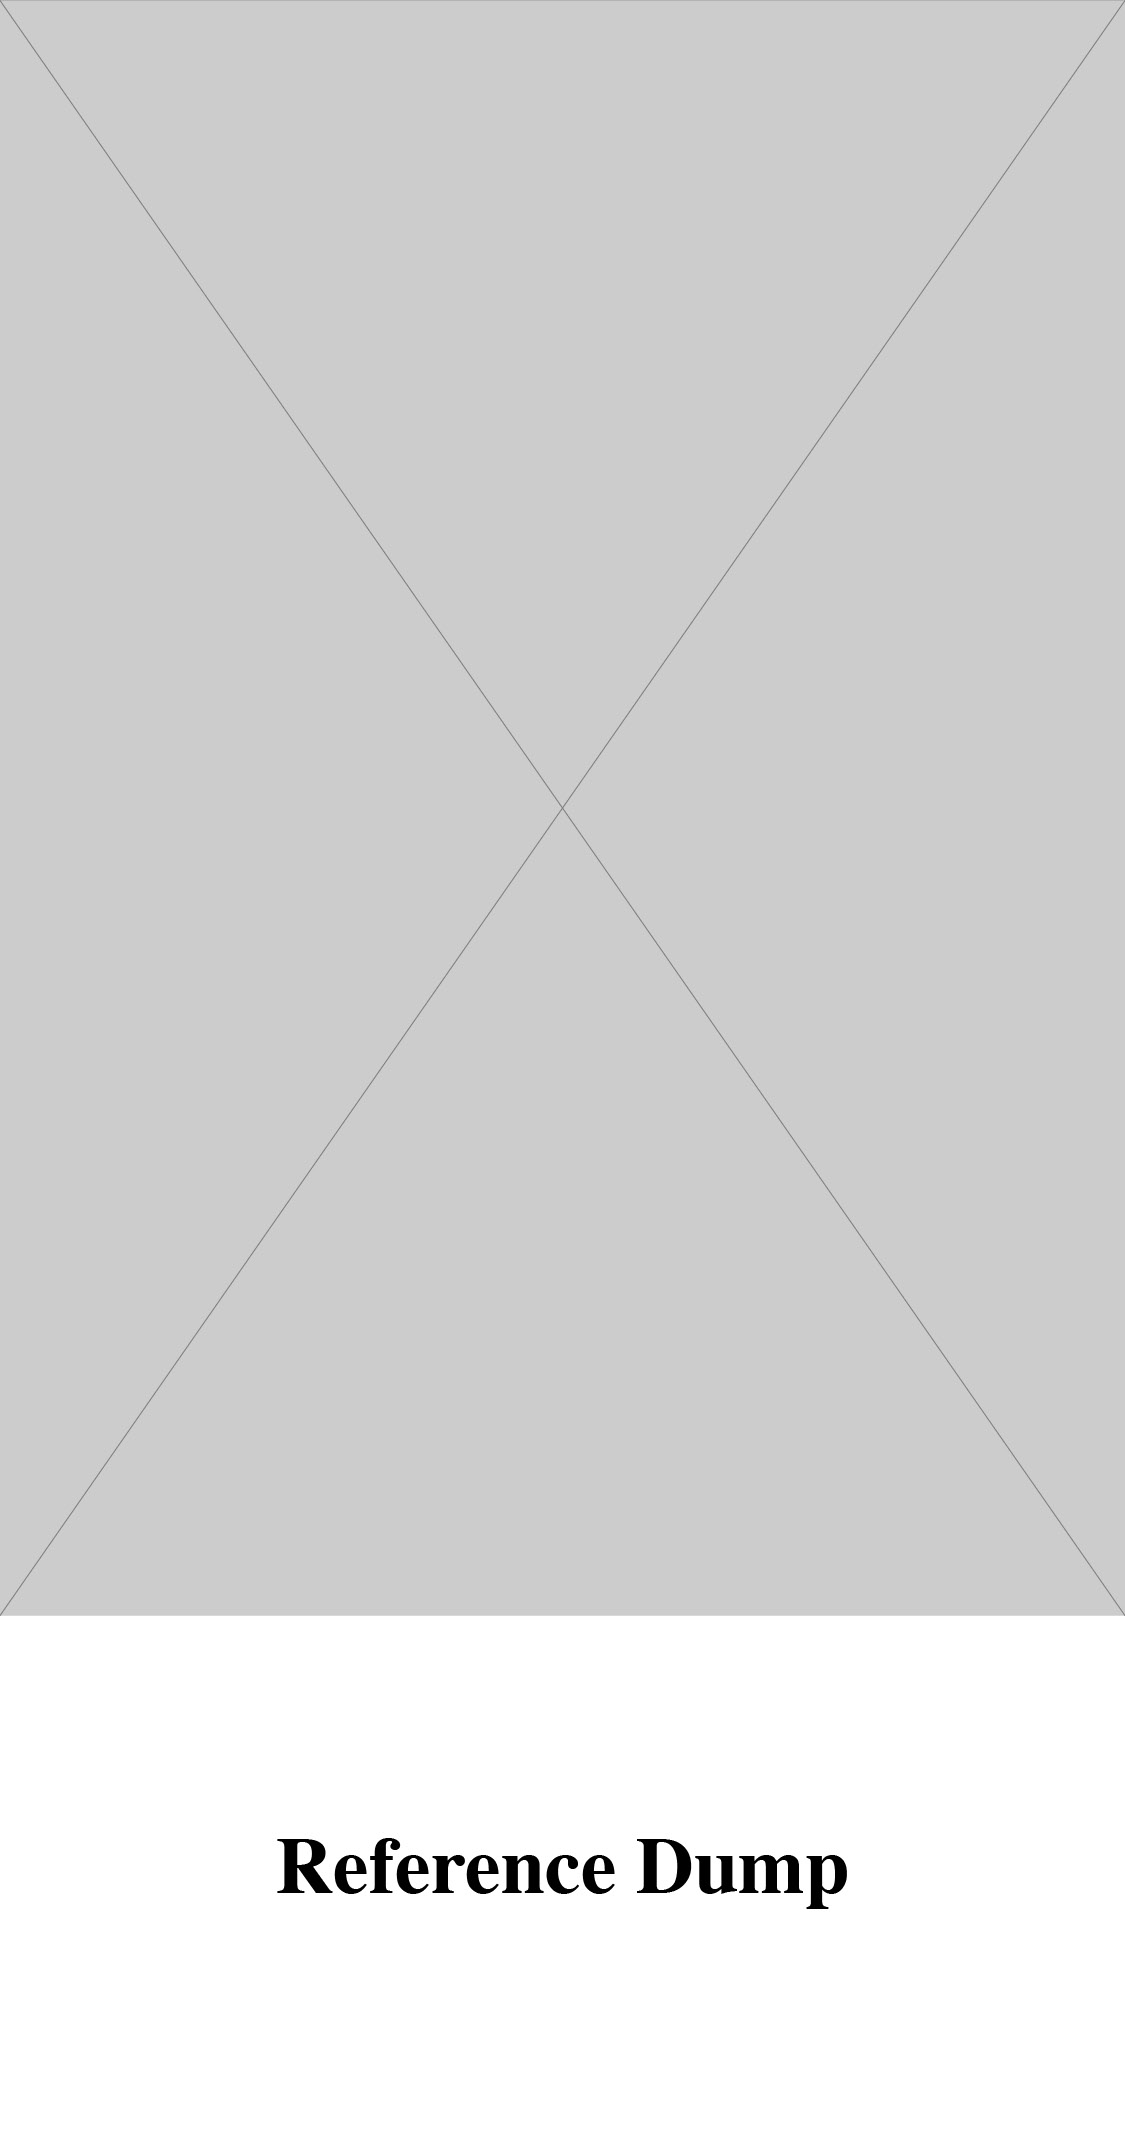
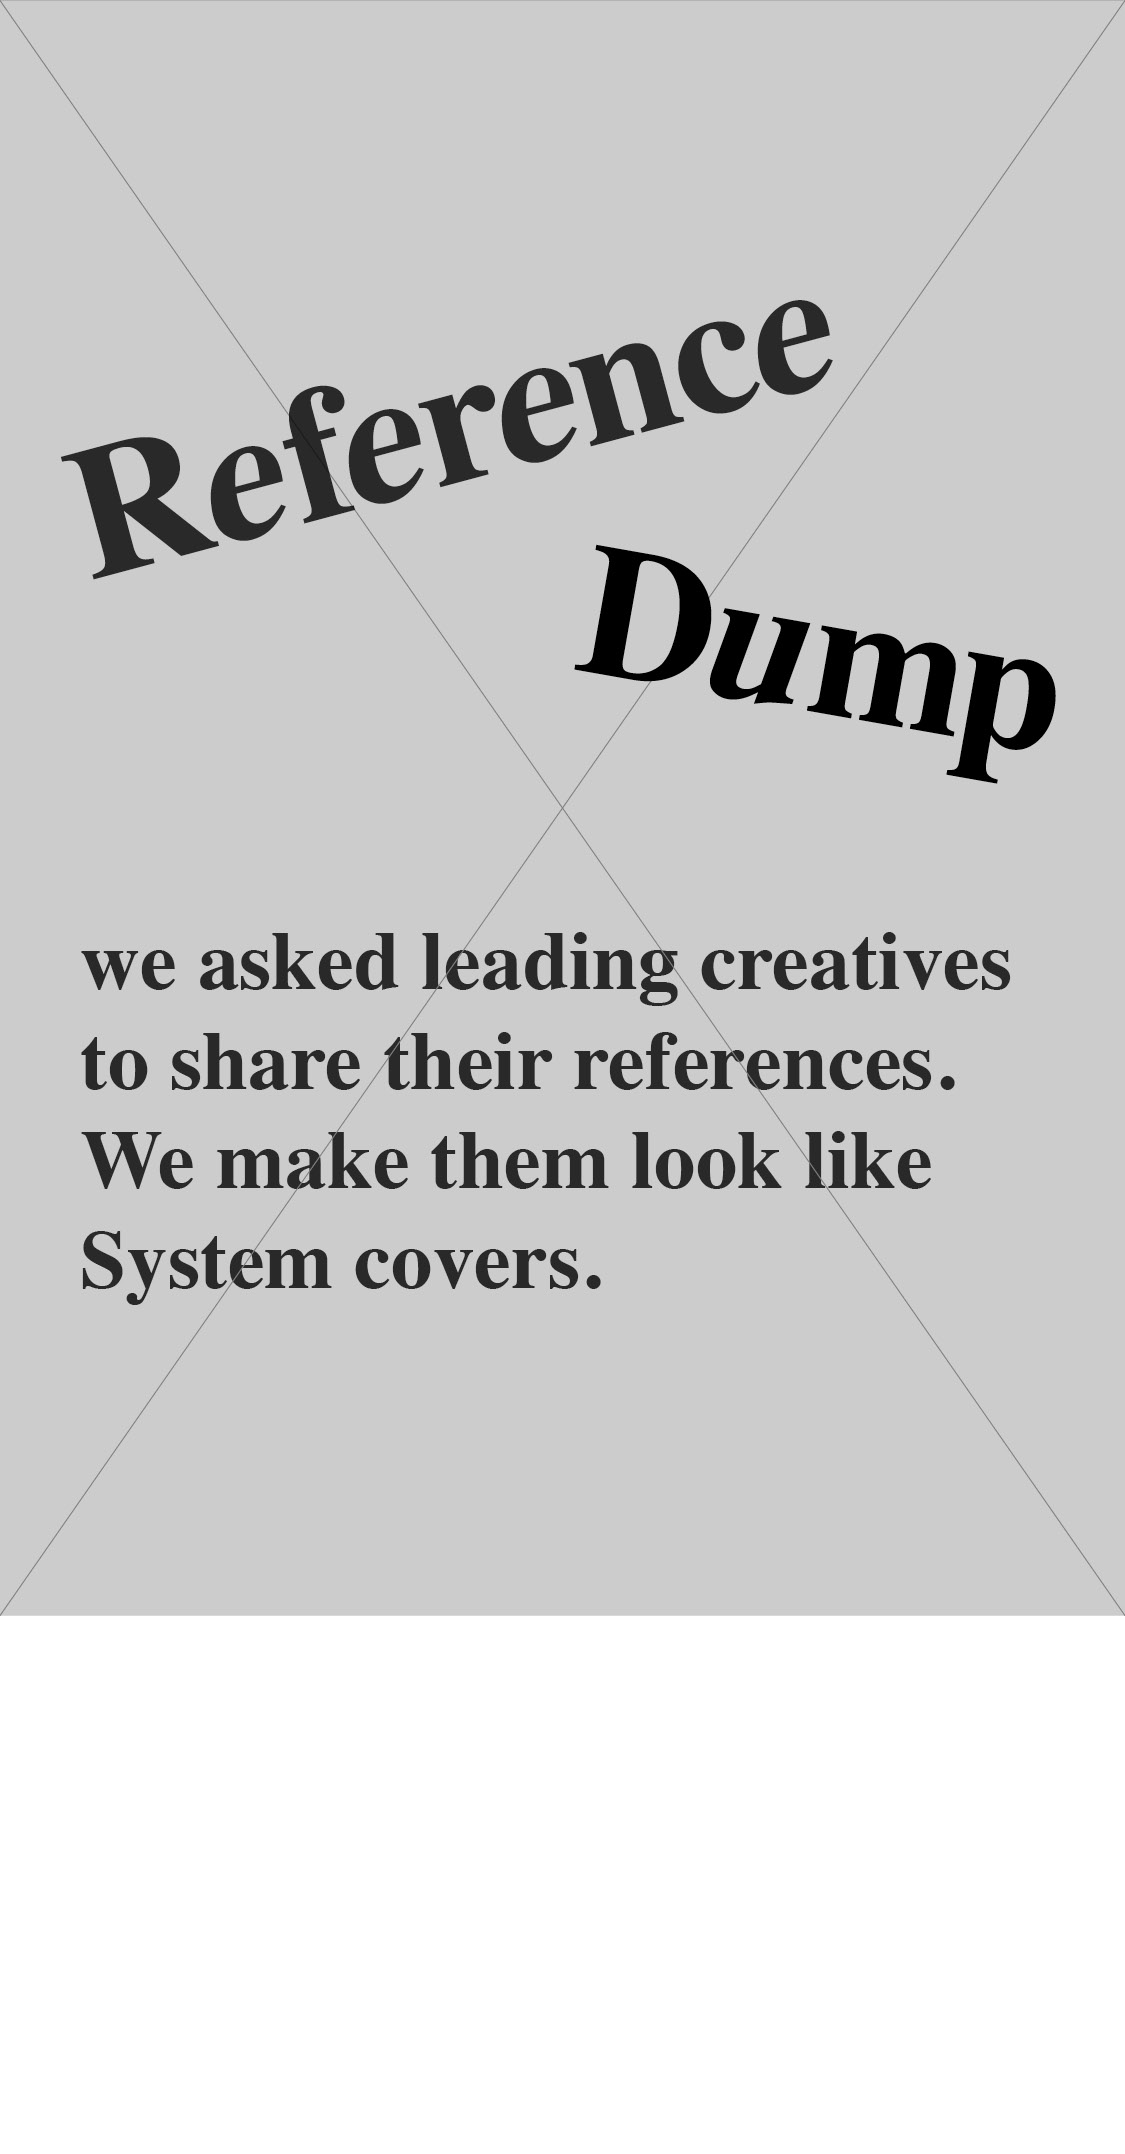
+

diff --git a/index.html b/index.html
@@ -53,7 +53,7 @@
                 
                 <div class="container loading_one">
                     <div class="loading_text">GUIDE TO A<br>NEW CREATIVE<br>PARADIGM</div>
-                    <a class="newsletter_text nav_text" href="http://eepurl.com/hGhtGH" target="blank" >Subscribe to newsletter</a>
+                    <a class="newsletter_text nav_text" href="http://eepurl.com/hGhtGH" target="blank" >Subscribe to Newsletter</a>
                     <div class="date_text nav_text"t>09|21 New York</div>
                     <a class="boockup" href="pages/download.html">
                         <div class="book-container">
@@ -94,11 +94,11 @@
             <div class="section s2">
                 <div id="s2" class="slide p2_title">
                 <div class="container">
-                    <div class="chapter_title">HOW STALIN <br> PREDICTED TIKTOK
+                    <div class="chapter_title">HOW STALIN PREDICTED TIKTOK
                     </div>
                 </div>
                 <div class="container">
-                    <div class="skip">Skip Chapter</div>
+                    <div class="skip">SKIP</div>
                 </div>
                 </div>
             </div>
@@ -114,8 +114,8 @@
                         </div>
                     </div>
                     <div class="container">
-                        <div class=skip>Skip Chapter</div>
-                        <div class="continue">continue</div>
+                        <div class=skip>SKIP</div>
+                        <div class="continue">CONTINUE</div>
                     </div>
                 </div>
                 <div class="slide p3">	
@@ -359,7 +359,7 @@
             <div class="section s4">
                 <div id="s4" class="slide p4">
                     <div class="container">
-                        <div class=skip>Skip Chapter</div>
+                        <div class=skip>SKIP</div>
                     </div> 
                 </div>
             </div>
@@ -367,8 +367,8 @@
             <div class="section s5">
                 <div id="s5" class="slide p5">
                     <div class="container">
-                        <div class=skip>Skip Chapter</div>
-                        <div class="continue">continue</div>
+                        <div class=skip>SKIP</div>
+                        <div class="continue">CONTINUE</div>
                     </div>
                     <div class="container">
                         <div class=p5_image>
@@ -381,48 +381,42 @@
             <div class="section s6">
                 <div id="s6" class="slide p6_title">
                     <div class="container">
-                        <div class=skip>Skip Chapter</div>
-                        <div class="continue">continue</div>
+                        <div class=skip>SKIP</div>
+                        <div class="continue">CONTINUE</div>
                     </div>
                 </div>
                 <div class="slide p6_trend"></div>
             </div>
 
             <div class="section s7">
-                <div id="s7" class="slide p7_title">
-                    <div class="container">
-                        <div class=skip>Skip Chapter</div>
-                        <div class="continue">continue</div>
-                    </div>
-                </div>
-                <div class="slide p7">
-                    <div class="scrolling-wrapper">    
+                    <div class="scrolling-wrapper">  
+                        <div><img id="s7_title_card"class="card" src="images/Referenz/dump_title.jpg" alt="Reference Dump"></div>
+  
                         <!-- START SERIES-->
-                        <div><img class="card" src="images/Referenz/dump.jpg" alt="Avantgarde"></div>
-                        <div><img class="card" src="images/Referenz/dump2.jpg" alt="Avantgarde"></div>
-                        <div><img class="card" src="images/Referenz/dump3.jpg" alt="Avantgarde"></div>
-                        <div><img class="card" src="images/Referenz/dump4.jpg" alt="Avantgarde"></div>
-                        <div><img class="card" src="images/Referenz/dump5.jpg" alt="Avantgarde"></div>
-                        <div><img class="card" src="images/Referenz/dump6.jpg" alt="Avantgarde"></div>
-                        <div><img class="card" src="images/Referenz/dump7.jpg" alt="Avantgarde"></div>
-                        <div><img class="card" src="images/Referenz/dump8.jpg" alt="Avantgarde"></div>
-                        <div><img class="card" src="images/Referenz/dump9.jpg" alt="Avantgarde"></div>
-                        <div><img class="card" src="images/Referenz/dump10.jpg" alt="Avantgarde"></div>
-                        <div><img class="card" src="images/Referenz/dump11.jpg" alt="Avantgarde"></div>
-                        <div><img class="card" src="images/Referenz/dump12.jpg" alt="Avantgarde"></div>
-                        <div><img class="card" src="images/Referenz/dump13.jpg" alt="Avantgarde"></div>
-                        <div><img class="card" src="images/Referenz/dump14.jpg" alt="Avantgarde"></div>
-                        <div><img class="card" src="images/Referenz/dump15.jpg" alt="Avantgarde"></div>
-                        <div><img class="card" src="images/Referenz/dump16.jpg" alt="Avantgarde"></div>
-                        <div><img class="card" src="images/Referenz/dump17.jpg" alt="Avantgarde"></div>
+                        <div><img class="card" style="padding-left: 20px; padding-right:20px;" src="images/Referenz/dump.jpg" alt="Reference Dump"></div>
+                        <div><img class="card" style="padding-left: 20px; padding-right:20px;" src="images/Referenz/dump2.jpg" alt="Reference Dump"></div>
+                        <div><img class="card" style="padding-left: 20px; padding-right:20px;" src="images/Referenz/dump3.jpg" alt="Reference Dump"></div>
+                        <div><img class="card" style="padding-left: 20px; padding-right:20px;" src="images/Referenz/dump4.jpg" alt="Reference Dump"></div>
+                        <div><img class="card" style="padding-left: 20px; padding-right:20px;" src="images/Referenz/dump5.jpg" alt="Reference Dump"></div>
+                        <div><img class="card" style="padding-left: 20px; padding-right:20px;" src="images/Referenz/dump6.jpg" alt="Reference Dump"></div>
+                        <div><img class="card" style="padding-left: 20px; padding-right:20px;" src="images/Referenz/dump7.jpg" alt="Reference Dump"></div>
+                        <div><img class="card" style="padding-left: 20px; padding-right:20px;" src="images/Referenz/dump8.jpg" alt="Reference Dump"></div>
+                        <div><img class="card" style="padding-left: 20px; padding-right:20px;" src="images/Referenz/dump9.jpg" alt="Reference Dump"></div>
+                        <div><img class="card" style="padding-left: 20px; padding-right:20px;" src="images/Referenz/dump10.jpg" alt="Reference Dump"></div>
+                        <div><img class="card" style="padding-left: 20px; padding-right:20px;" src="images/Referenz/dump11.jpg" alt="Reference Dump"></div>
+                        <div><img class="card" style="padding-left: 20px; padding-right:20px;" src="images/Referenz/dump12.jpg" alt="Reference Dump"></div>
+                        <div><img class="card" style="padding-left: 20px; padding-right:20px;" src="images/Referenz/dump13.jpg" alt="Reference Dump"></div>
+                        <div><img class="card" style="padding-left: 20px; padding-right:20px;" src="images/Referenz/dump14.jpg" alt="Reference Dump"></div>
+                        <div><img class="card" style="padding-left: 20px; padding-right:20px;" src="images/Referenz/dump15.jpg" alt="Reference Dump"></div>
+                        <div><img class="card" style="padding-left: 20px; padding-right:20px;" src="images/Referenz/dump16.jpg" alt="Reference Dump"></div>
+                        <div><img class="card" style="padding-left: 20px;" src="images/Referenz/dump17.jpg" alt="Reference Dump"></div>
                     </div>
-                </div>      
             </div>
 
             <div class="section s8">
                 <div id="s8" class="scrolling-wrapper">
                     <div><img id="s8_title_card" class="card" src="images/avantgarde/avantgarde.jpg" alt="Avantgarde">
-                        <p class=skip>Skip Chapter</p></div>
+                        <p class=skip>SKIP</p></div>
     
                     <!--START EDITORIAL-->
     
@@ -437,43 +431,13 @@
                     <div><img class="card" src="images/avantgarde/avantgarde10.jpg" alt="Avantgarde"></div>
                     <div><img class="card" src="images/avantgarde/avantgarde11.jpg" alt="Avantgarde"></div>
                 </div>
-                <script>
-                    const slider = document.querySelector(".scrolling-wrapper");
-                    let mouseDown = false;
-                    let startX, scrollLeft;
-    
-                    let startDragging = function (e) {
-                        mouseDown = true;
-                        startX = e.pageX - slider.offsetLeft;
-                        scrollLeft = slider.scrollLeft;
-                        console.log("Drag works");
-                    };
-                    let stopDragging = function (event) {
-                        mouseDown = false;
-                    };
-    
-                    slider.addEventListener('mousemove', (e) => {
-                        e.preventDefault();
-                        if (!mouseDown) {
-                            return;
-                        }
-                        const x = e.pageX - slider.offsetLeft;
-                        const scroll = x - startX;
-                        slider.scrollLeft = scrollLeft - scroll;
-                    });
-    
-                    // Add the event listeners
-                    slider.addEventListener('mousedown', startDragging, false);
-                    slider.addEventListener('mouseup', stopDragging, false);
-                    slider.addEventListener('mouseleave', stopDragging, false);
-                </script>
             </div>
 
             <div class="section s9">
                 <div id="s9" class="slide p9_dance">
                     <div class="container">
-                        <div class=skip>Skip Chapter</div>
-                        <div class="continue">continue</div>
+                        <div class=skip>SKIP</div>
+                        <div class="continue">CONTINUE</div>
                     </div>
                 </div>
                 <div class="slide p9">
@@ -487,8 +451,8 @@
             <div class="section s10">
                 <div id="s10" class="slide p10">
                     <div class="container">
-                        <div class=skip>Skip Chapter</div>
-                        <div class="continue">continue</div>
+                        <div class=skip>SKIP</div>
+                        <div class="continue">CONTINUE</div>
                     </div>
                 </div>
             </div>
@@ -726,5 +690,36 @@ var x = setInterval(function() {
       document.getElementById("menu").style.transform = "translate(0)";
     }
     </script>
+
+<script>
+    const slider = document.querySelector(".scrolling-wrapper");
+    let mouseDown = false;
+    let startX, scrollLeft;
+
+    let startDragging = function (e) {
+        mouseDown = true;
+        startX = e.pageX - slider.offsetLeft;
+        scrollLeft = slider.scrollLeft;
+        console.log("Drag works");
+    };
+    let stopDragging = function (event) {
+        mouseDown = false;
+    };
+
+    slider.addEventListener('mousemove', (e) => {
+        e.preventDefault();
+        if (!mouseDown) {
+            return;
+        }
+        const x = e.pageX - slider.offsetLeft;
+        const scroll = x - startX;
+        slider.scrollLeft = scrollLeft - scroll;
+    });
+
+    // Add the event listeners
+    slider.addEventListener('mousedown', startDragging, false);
+    slider.addEventListener('mouseup', stopDragging, false);
+    slider.addEventListener('mouseleave', stopDragging, false);
+</script>
     
 </html>
